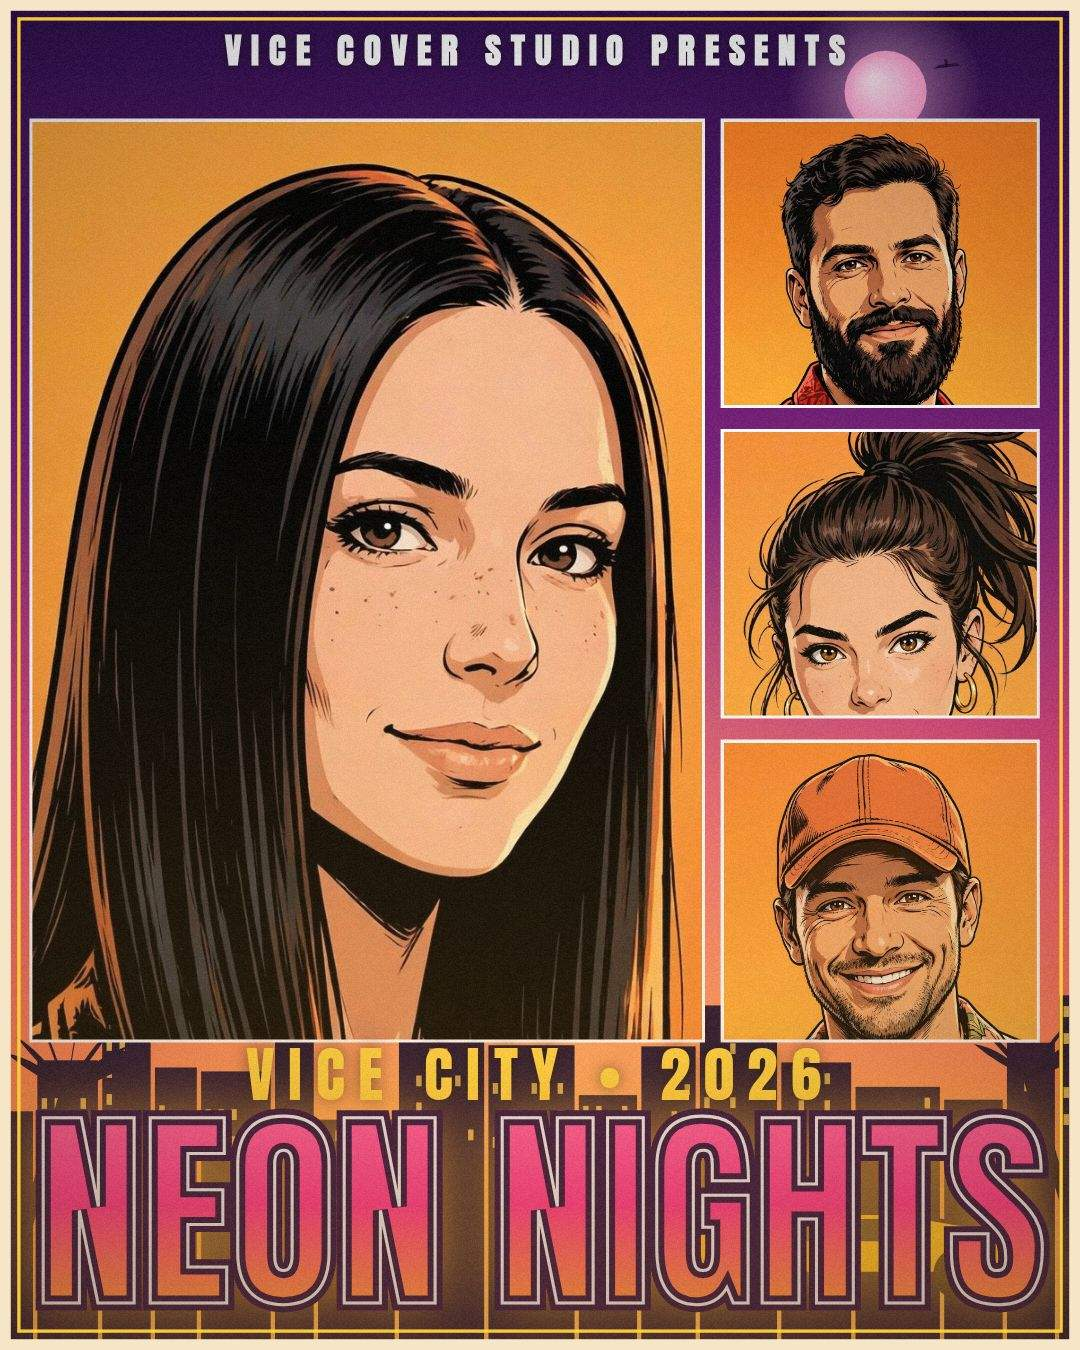
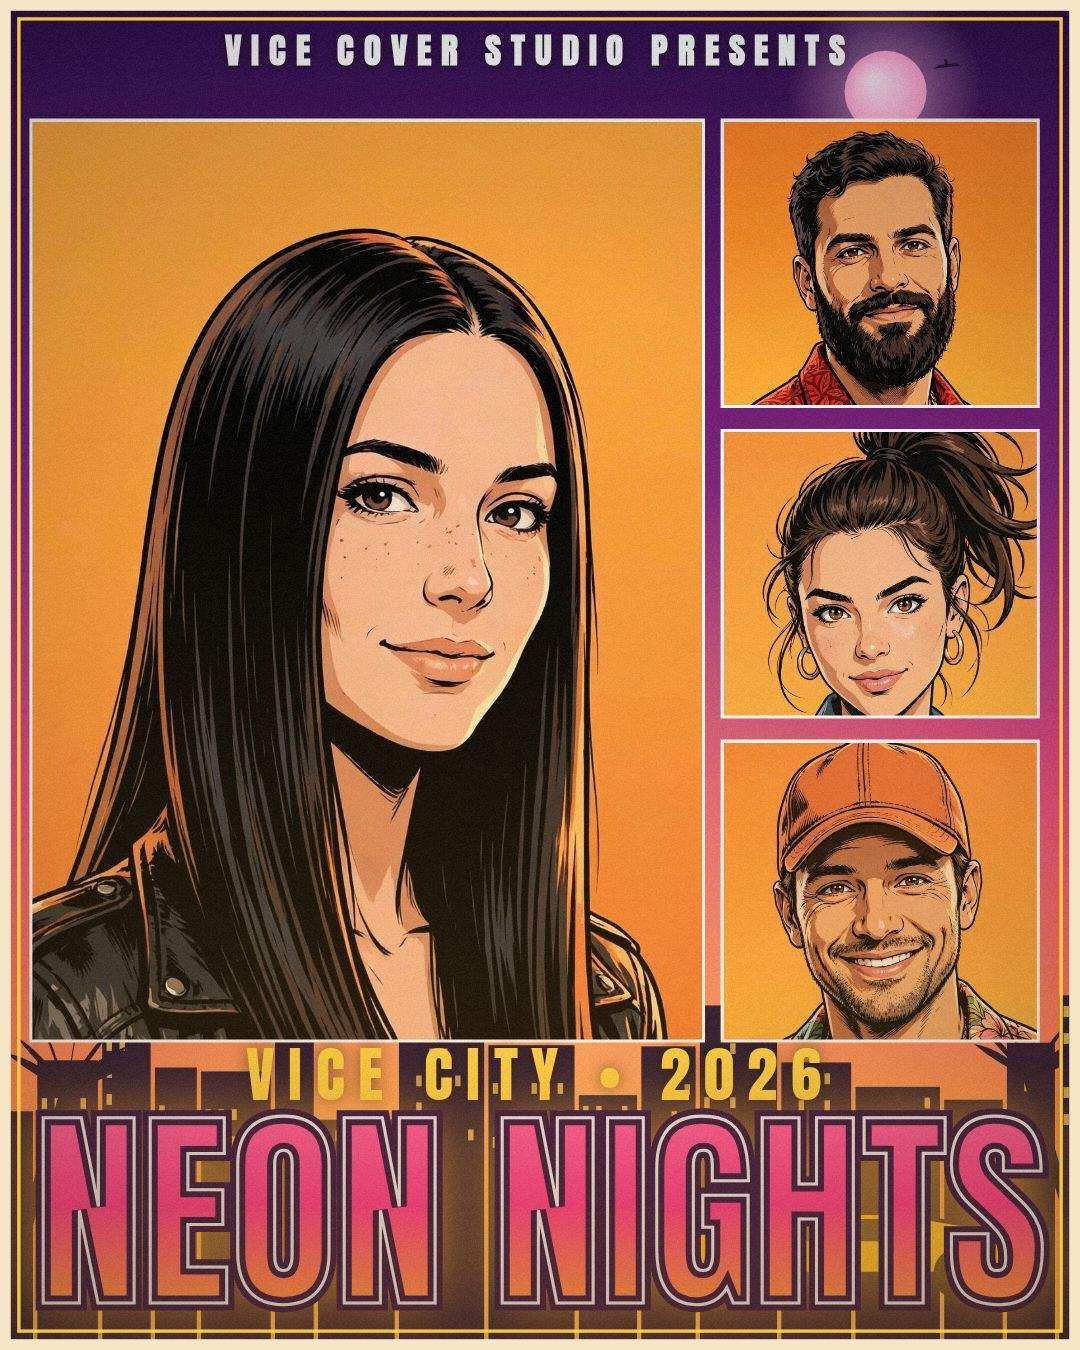
Fix photo placement: loosen crops so full head + hair stays in frame
- Hero zoom 1.5x -> 1.1x, supporting panels to 1.0x (widest cover-fit)
- Face-aware pin: per-asset hairline (HEAD_TOP) + chin (CHIN); the crop
  window starts at the hairline when the whole head fits, and keeps the
  chin in frame when a panel is too short for the whole head. Past 1.2x
  zoom the user's focal point wins, so manual zoom-in is never fought.
- Corrected per-asset face anchors (FACE_OY) from the cast art.
- Fixed a real bug: ?assets= and cast clicks reassigned a panel's image
  without updating its face anchor, so char-5/char-7 heroes were framed
  with char-1's anchor (chin cut, face huge).
- Re-took all 4 screenshots; verified all 4 layouts x 3 export sizes.

diff --git a/app/src/cover.js b/app/src/cover.js
@@ -107,15 +107,31 @@ export const GRADES = {
 // ------------------------------------------------------------------ helpers
 // Face-aware crops: every character in the built-in cast was drawn with its
 // face in the upper third of the frame, so the default crop anchors to the
-// face region (ox 0.5, oy 0.28) instead of the image centre. A panel's crop
+// face region (ox 0.5, oy 0.30) instead of the image centre. A panel's crop
 // starts on the face; the user can still pan/zoom freely, and double-click
 // reframes a panel back onto the face.
-export const FACE_ANCHOR = { ox: 0.5, oy: 0.28 };
+export const FACE_ANCHOR = { ox: 0.5, oy: 0.30 };
+
+// Per-asset head geometry (fractions of the image height), measured from the
+// cast art: HEAD_TOP is the top of the solid hair / hat mass (wispy tips may
+// sit a little higher), CHIN is the bottom of the jaw / beard. The renderer
+// pins the crop window to the hairline when the whole head fits, so no head
+// or hair is ever cut by a default crop; when a panel is too short to hold
+// the whole head it keeps the chin in frame instead. Anything unlisted
+// (user uploads) falls back to a small headroom and a mid chin.
+export const HEAD_TOP = [0.02, 0.07, 0.07, 0.05, 0.10, 0.07, 0.08, 0.10];
+export const CHIN = [0.42, 0.40, 0.45, 0.42, 0.47, 0.48, 0.42, 0.48];
 
 // Cover-fit draw of an image into a rect, with a focal point (ox, oy in
 // 0..1) and a zoom factor. Faces in the character art sit in the upper
-// portion, so the default focal point is the face anchor (0.5, 0.28).
-function drawImageCover(ctx, img, dx, dy, dw, dh, ox, oy, zoom) {
+// portion, so the default focal point is the face anchor (0.5, 0.30).
+// headTop / chin are the asset's hairline and jaw (fractions of the image
+// height). At the default crop (zoom <= 1.2) the window is pinned so the
+// whole head stays in frame: when the head fits, the window starts at the
+// hairline; when the panel is too short for the whole head, the chin is
+// kept in frame and the hairline bleeds instead. Past 1.2x the user's
+// focal point wins, so zooming into a face is never fought by the pin.
+function drawImageCover(ctx, img, dx, dy, dw, dh, ox, oy, zoom, headTop, chin) {
   const iw = img.naturalWidth, ih = img.naturalHeight;
   if (!iw || !ih) return;
   const base = Math.max(dw / iw, dh / ih);
@@ -124,6 +140,11 @@ function drawImageCover(ctx, img, dx, dy, dw, dh, ox, oy, zoom) {
   let sx = ox * iw - sw / 2, sy = oy * ih - sh / 2;
   sx = Math.max(0, Math.min(iw - sw, sx));
   sy = Math.max(0, Math.min(ih - sh, sy));
+  if ((zoom || 1) <= 1.2 && headTop !== undefined && chin !== undefined) {
+    if (headTop * ih + sh >= chin * ih) sy = Math.min(sy, headTop * ih);
+    else sy = Math.max(sy, chin * ih - sh);
+    sy = Math.max(0, Math.min(ih - sh, sy));
+  }
   ctx.drawImage(img, sx, sy, sw, sh, dx, dy, dw, dh);
 }
 
@@ -319,7 +340,7 @@ function drawPanels(ctx, W, H, layout, images, panels) {
     ctx.beginPath();
     ctx.rect(r.x, r.y, r.w, r.h);
     ctx.clip();
-    if (img) drawImageCover(ctx, img, r.x, r.y, r.w, r.h, p.ox ?? 0.5, p.oy ?? 0.3, p.zoom ?? 1);
+    if (img) drawImageCover(ctx, img, r.x, r.y, r.w, r.h, p.ox ?? 0.5, p.oy ?? 0.3, p.zoom ?? 1, HEAD_TOP[p.img] ?? 0.05, CHIN[p.img] ?? 0.45);
     else { ctx.fillStyle = '#2b1838'; ctx.fillRect(r.x, r.y, r.w, r.h); }
     ctx.restore();
   }

diff --git a/app/src/main.js b/app/src/main.js
@@ -55,15 +55,16 @@ async function loadAssets() {
 // different heights (char-5's tall ponytail puts her face lower), so each
 // asset records its own face height. defaultPanels and reframeToFace use
 // these; anything unlisted falls back to FACE_ANCHOR.
-const FACE_OY = [0.28, 0.28, 0.28, 0.28, 0.38, 0.32, 0.30, 0.30];
+const FACE_OY = [0.30, 0.30, 0.32, 0.32, 0.38, 0.32, 0.30, 0.30];
 function faceOy(imgIdx) {
   return Number.isInteger(imgIdx) && FACE_OY[imgIdx] !== undefined ? FACE_OY[imgIdx] : FACE_ANCHOR.oy;
 }
 
 // Default panels for a layout: cycle through the cast, each crop anchored
 // to that asset's face (faceOy) so no face is ever cut by default. The hero
-// panel is a close-up (zoomed to the face); supporting panels vary their
-// zoom slightly so a repeated character still reads differently.
+// is a close-up but stays loose enough (1.1x) that the whole head — hair
+// included — is in frame; supporting panels sit at 1.0x, the widest the
+// cover-fit allows, so the renderer can keep the full head in frame.
 function defaultPanels(layout) {
   const n = panelCount(layout);
   const { hero } = layoutRects(layout, 100, 100);
@@ -74,7 +75,7 @@ function defaultPanels(layout) {
       img,
       ox: FACE_ANCHOR.ox,
       oy: faceOy(img),
-      zoom: i === hero ? 1.5 : 1 + (i % 3) * 0.08,
+      zoom: i === hero ? 1.1 : 1,
     });
   }
   return panels;
@@ -87,7 +88,7 @@ function reframeToFace(i) {
   const { hero } = layoutRects(state.layout, canvas.width, canvas.height);
   p.ox = FACE_ANCHOR.ox;
   p.oy = faceOy(p.img);
-  p.zoom = i === hero ? 1.5 : 1;
+  p.zoom = i === hero ? 1.1 : 1;
   render();
   buildPanelList();
 }
@@ -99,6 +100,8 @@ function applyAssetParam() {
   idxs.forEach((a, i) => {
     if (state.panels[i] && Number.isInteger(a) && a >= 0 && a < state.images.length) {
       state.panels[i].img = a;
+      // A new character brings its own face anchor.
+      state.panels[i].oy = faceOy(a);
     }
   });
 }
@@ -143,7 +146,14 @@ function buildCast() {
     t.title = t.alt;
     t.addEventListener('click', () => {
       const p = state.panels[state.selected];
-      if (p) { p.img = i; render(); buildPanelList(); }
+      if (p) {
+        p.img = i;
+        // A new character brings its own face anchor and default framing.
+        p.oy = faceOy(i);
+        const { hero } = layoutRects(state.layout, 100, 100);
+        p.zoom = state.selected === hero ? 1.1 : 1;
+        render(); buildPanelList();
+      }
       cast.querySelectorAll('img').forEach((x) => x.classList.remove('sel'));
       t.classList.add('sel');
     });
